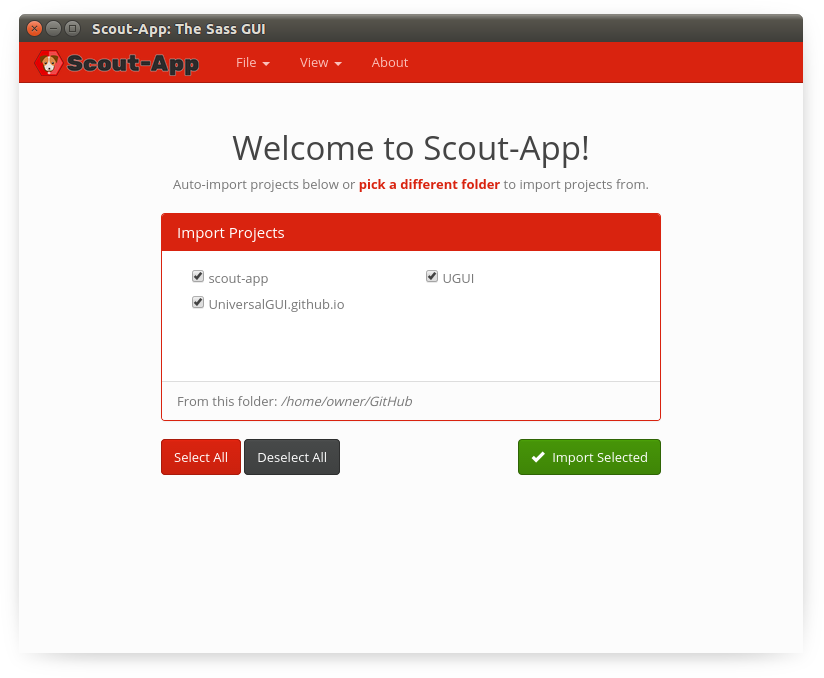
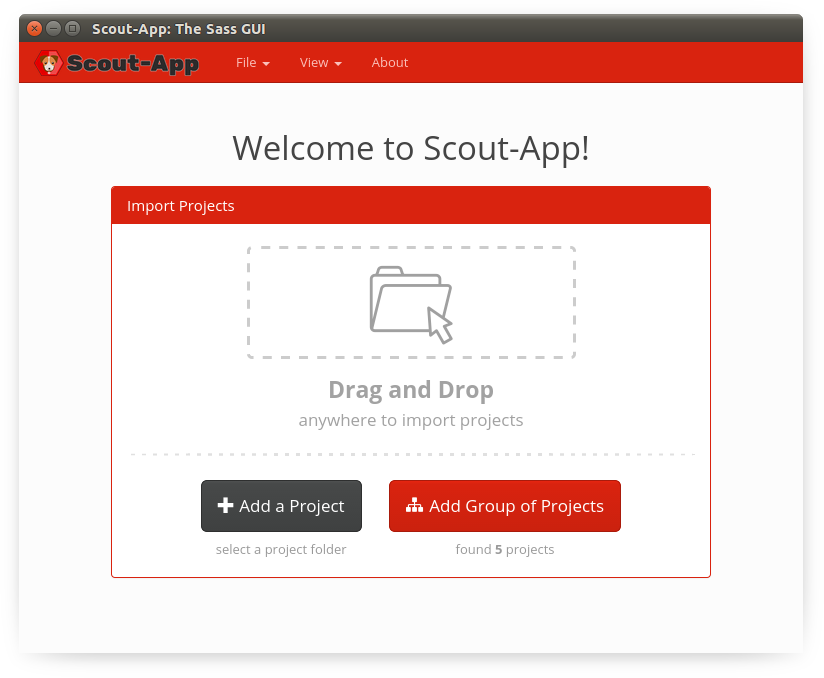
Update screenshots

Changed region(s): [[0.182, 0.5575, 0.8192, 0.8363], [0.1214, 0.2478, 0.8799, 0.5265]]

diff --git a/_scripts/main.js b/_scripts/main.js
@@ -1,1 +1,1 @@
-function slickInit(e){$(e).slick({lazyLoad:"ondemand",slidesToShow:1,slidesToScroll:1,dots:!0,centerMode:!0,focusOnSelect:!0,fade:!0})}function slideMaker(e,t,a){return'<div><img data-lazy="/_img/screenshots/'+e+"/"+t+'.png" alt="'+a+'" /><p>'+a+"</p></div>"}function updateScreenshots(e){for(var t="",a=siteData.screenshots,s=siteData.os[e].name,i="",l="",n="",o=0;o<a.length;o++)i=a[o].image,l=a[o].text+" ("+s+")",n=slideMaker(e,i,l),t=t+"\n"+n;if(siteData.os[e].legacy)for(var r=siteData.os[e].legacy,d=0;d<r.length;d++)i=r[d].image,l=r[d].name,n=slideMaker(e,i,l),t=t+"\n"+n;var c="#screenshots .slick";$(c).html(t).removeClass("slick-initialized slick-slider slick-dotted"),slickInit(c)}function updateCultures(e){for(var t=siteData.cultures,a=siteData.os[e].name,s="",i="",l="",n="",o=0;o<t.length;o++)i=t[o].image,l=t[o].language+" ("+a+")",n=slideMaker(e,i,l),s=s+"\n"+n;var r="#cultures .slick";$(r).html(s).removeClass("slick-initialized slick-slider slick-dotted"),slickInit(r)}function updateThemes(e){for(var t=siteData.themes,a=siteData.os[e].name,s="",i="",l="",n="",o=0;o<t.length;o++)i=t[o].image,l=t[o].theme+" ("+a+")",n=slideMaker(e,i,l),s=s+"\n"+n;var r="#themes .slick";$(r).html(s).removeClass("slick-initialized slick-slider slick-dotted"),slickInit(r)}var $=window.$,latestRelease="https://api.github.com/repos/scout-app/scout-app/releases";$.get(latestRelease,function(e){for(var t=0;t<e.length;t++){var a=e[t],s=a.assets,i=s.length;if(i>3){for(var l,n,o,r,d=0;d<i;d++){var c=s[d],m=c.browser_download_url,u=c.browser_download_url.toLowerCase();/lin32/gi.test(u)?l=m:/lin64/gi.test(u)?n=m:/osx/gi.test(u)?o=m:/win/gi.test(u)&&(r=m)}var h=a.tag_name;return h=h.replace("v",""),$("#downloads .lin32").attr("href",l),$("#downloads .lin64").attr("href",n),$("#downloads .osxupdate").attr("href",o),$("#downloads .windowsupdate").attr("href",r),$("#downloads .lin32").removeAttr("target").attr("download",""),$("#downloads .lin64").removeAttr("target").attr("download",""),$("#downloads .osxupdate").removeAttr("target").attr("download",""),$("#downloads .windowsupdate").removeAttr("target").attr("download",""),void $(".currentVersion").replaceWith(h)}}}),$(".showmore").click(function(){$(".limited").slideUp("slow"),$(".complete").slideDown("slow")}),$(".showless").click(function(){$(".complete").slideUp(),$(".limited").slideDown()}),$(".showless").click(),$("#minreqs th").click(function(){$("#minreqs th").removeClass("selected"),$(this).addClass("selected");var e=$(this).data("os");$("#minreqs td div").hide(),$("#minreqs ."+e).show()}),$("#translation_instructions").hide(),$(".showtranslations").click(function(){$("#translation_instructions").slideToggle()}),$(".translate-link").click(function(){$("#translation_instructions").slideDown()});var siteData={os:{win:{name:"Windows 7",legacy:[{name:"XP",image:"xp"},{name:"Windows 10",image:"win10"}]},ubuntu:{name:"Ubuntu",legacy:[{name:"Ubuntu 12 LTS",image:"ubuntu12"}]},zorin:{name:"Zorin",legacy:[{name:"Debian",image:"debian"}]},osx:{name:"OSX"}},cultures:[{language:"English",code:"en",image:"02"},{language:"Dutch",code:"nl",image:"03"},{language:"French",code:"fr",image:"04"},{language:"Russian",code:"ru",image:"05"}],themes:[{theme:"Simplex",image:"02"},{theme:"Cerulean",image:"06"},{theme:"Classic",image:"07"},{theme:"Cosmo",image:"08"},{theme:"Cyborg",image:"09"},{theme:"Darkly",image:"10"},{theme:"Flatly",image:"11"},{theme:"Journal",image:"12"},{theme:"Lumen",image:"13"},{theme:"Paper",image:"14"},{theme:"Readable",image:"15"},{theme:"Sandstone",image:"16"},{theme:"Slate",image:"17"},{theme:"Spacelab",image:"18"},{theme:"Superhero",image:"19"},{theme:"United",image:"20"},{theme:"Yeti",image:"21"}],screenshots:[{text:"First Time User Experience",image:"01"},{text:"Project view",image:"02"},{text:"Status of All Projects",image:"22"},{text:"Dev Tools are always accessible",image:"23"}]};$("#screenshots img").click(function(){var e=$(this).data("os");updateScreenshots(e)}),$("#cultures img").click(function(){var e=$(this).data("os");updateCultures(e)}),$("#themes img").click(function(){var e=$(this).data("os");updateThemes(e)});var currentOs="";$("html").hasClass("win")?(currentOs="win",$("#downloads .windowsupdate").addClass("selected")):$("html").hasClass("mac")?(currentOs="osx",$("#downloads .osxupdate").addClass("selected")):$("html").hasClass("linux")&&(currentOs="ubuntu",$("html").hasClass("arch32")?$("#downloads .lin32").addClass("selected"):$("html").hasClass("arch64")&&$("#downloads .lin64").addClass("selected")),$("#screenshots ."+currentOs).click(),$("#cultures ."+currentOs).click(),$("#themes ."+currentOs).click(),$('#minreqs [data-os="'+currentOs+'"]').click();
+function slickInit(e){$(e).slick({lazyLoad:"ondemand",slidesToShow:1,slidesToScroll:1,dots:!0,centerMode:!0,focusOnSelect:!0,fade:!0})}function slideMaker(e,t,a){return'<div><img data-lazy="/_img/screenshots/'+e+"/"+t+'.png" alt="'+a+'" /><p>'+a+"</p></div>"}function updateScreenshots(e){for(var t="",a=siteData.screenshots,s=siteData.os[e].name,i="",l="",n="",o=0;o<a.length;o++)i=a[o].image,l=a[o].text+" ("+s+")",n=slideMaker(e,i,l),t=t+"\n"+n;if(siteData.os[e].legacy)for(var r=siteData.os[e].legacy,d=0;d<r.length;d++)i=r[d].image,l=r[d].name,n=slideMaker(e,i,l),t=t+"\n"+n;var c="#screenshots .slick";$(c).html(t).removeClass("slick-initialized slick-slider slick-dotted"),slickInit(c)}function updateCultures(e){for(var t=siteData.cultures,a=siteData.os[e].name,s="",i="",l="",n="",o=0;o<t.length;o++)i=t[o].image,l=t[o].language+" ("+a+")",n=slideMaker(e,i,l),s=s+"\n"+n;var r="#cultures .slick";$(r).html(s).removeClass("slick-initialized slick-slider slick-dotted"),slickInit(r)}function updateThemes(e){for(var t=siteData.themes,a=siteData.os[e].name,s="",i="",l="",n="",o=0;o<t.length;o++)i=t[o].image,l=t[o].theme+" ("+a+")",n=slideMaker(e,i,l),s=s+"\n"+n;var r="#themes .slick";$(r).html(s).removeClass("slick-initialized slick-slider slick-dotted"),slickInit(r)}var $=window.$,latestRelease="https://api.github.com/repos/scout-app/scout-app/releases";$.get(latestRelease,function(e){for(var t=0;t<e.length;t++){var a=e[t],s=a.assets,i=s.length;if(i>3){for(var l,n,o,r,d=0;d<i;d++){var c=s[d],m=c.browser_download_url,u=c.browser_download_url.toLowerCase();/lin32/gi.test(u)?l=m:/lin64/gi.test(u)?n=m:/osx/gi.test(u)?o=m:/win/gi.test(u)&&(r=m)}var h=a.tag_name;return h=h.replace("v",""),$("#downloads .lin32").attr("href",l),$("#downloads .lin64").attr("href",n),$("#downloads .osxupdate").attr("href",o),$("#downloads .windowsupdate").attr("href",r),$("#downloads .lin32").removeAttr("target").attr("download",""),$("#downloads .lin64").removeAttr("target").attr("download",""),$("#downloads .osxupdate").removeAttr("target").attr("download",""),$("#downloads .windowsupdate").removeAttr("target").attr("download",""),void $(".currentVersion").replaceWith(h)}}}),$(".showmore").click(function(){$(".limited").slideUp("slow"),$(".complete").slideDown("slow")}),$(".showless").click(function(){$(".complete").slideUp(),$(".limited").slideDown()}),$(".showless").click(),$("#minreqs th").click(function(){$("#minreqs th").removeClass("selected"),$(this).addClass("selected");var e=$(this).data("os");$("#minreqs td div").hide(),$("#minreqs ."+e).show()}),$("#translation_instructions").hide(),$(".showtranslations").click(function(){$("#translation_instructions").slideToggle()}),$(".translate-link").click(function(){$("#translation_instructions").slideDown()});var siteData={os:{win:{name:"Windows 7",legacy:[{name:"XP",image:"xp"},{name:"Windows 10",image:"win10"}]},ubuntu:{name:"Ubuntu",legacy:[{name:"Ubuntu 12 LTS",image:"ubuntu12"}]},zorin:{name:"Zorin",legacy:[{name:"Debian",image:"debian"}]},osx:{name:"OSX"}},cultures:[{language:"English",code:"en",image:"02"},{language:"Dutch",code:"nl",image:"03"},{language:"French",code:"fr",image:"04"},{language:"Russian",code:"ru",image:"05"}],themes:[{theme:"Simplex",image:"02"},{theme:"Cerulean",image:"06"},{theme:"Classic",image:"07"},{theme:"Cosmo",image:"08"},{theme:"Cyborg",image:"09"},{theme:"Darkly",image:"10"},{theme:"Flatly",image:"11"},{theme:"Journal",image:"12"},{theme:"Lumen",image:"13"},{theme:"Paper",image:"14"},{theme:"Readable",image:"15"},{theme:"Sandstone",image:"16"},{theme:"Slate",image:"17"},{theme:"Spacelab",image:"18"},{theme:"Superhero",image:"19"},{theme:"United",image:"20"},{theme:"W3suli.com",image:"24"},{theme:"Yeti",image:"21"}],screenshots:[{text:"First Time User Experience",image:"01"},{text:"Project view",image:"02"},{text:"Multi-Project Import",image:"25"},{text:"Status of All Projects",image:"22"},{text:"Dev Tools are always accessible",image:"23"}]};$("#screenshots img").click(function(){var e=$(this).data("os");updateScreenshots(e)}),$("#cultures img").click(function(){var e=$(this).data("os");updateCultures(e)}),$("#themes img").click(function(){var e=$(this).data("os");updateThemes(e)});var currentOs="";$("html").hasClass("win")?(currentOs="win",$("#downloads .windowsupdate").addClass("selected")):$("html").hasClass("mac")?(currentOs="osx",$("#downloads .osxupdate").addClass("selected")):$("html").hasClass("linux")&&(currentOs="ubuntu",$("html").hasClass("arch32")?$("#downloads .lin32").addClass("selected"):$("html").hasClass("arch64")&&$("#downloads .lin64").addClass("selected")),$("#screenshots ."+currentOs).click(),$("#cultures ."+currentOs).click(),$("#themes ."+currentOs).click(),$('#minreqs [data-os="'+currentOs+'"]').click();

diff --git a/_js/main.js b/_js/main.js
@@ -139,27 +139,29 @@ var siteData = {
         { 'language': 'Russian', 'code': 'ru', 'image': '05' }
     ],
     'themes': [
-        { 'theme': 'Simplex',   'image': '02' },
-        { 'theme': 'Cerulean',  'image': '06' },
-        { 'theme': 'Classic',   'image': '07' },
-        { 'theme': 'Cosmo',     'image': '08' },
-        { 'theme': 'Cyborg',    'image': '09' },
-        { 'theme': 'Darkly',    'image': '10' },
-        { 'theme': 'Flatly',    'image': '11' },
-        { 'theme': 'Journal',   'image': '12' },
-        { 'theme': 'Lumen',     'image': '13' },
-        { 'theme': 'Paper',     'image': '14' },
-        { 'theme': 'Readable',  'image': '15' },
-        { 'theme': 'Sandstone', 'image': '16' },
-        { 'theme': 'Slate',     'image': '17' },
-        { 'theme': 'Spacelab',  'image': '18' },
-        { 'theme': 'Superhero', 'image': '19' },
-        { 'theme': 'United',    'image': '20' },
-        { 'theme': 'Yeti',      'image': '21' }
+        { 'theme': 'Simplex',    'image': '02' },
+        { 'theme': 'Cerulean',   'image': '06' },
+        { 'theme': 'Classic',    'image': '07' },
+        { 'theme': 'Cosmo',      'image': '08' },
+        { 'theme': 'Cyborg',     'image': '09' },
+        { 'theme': 'Darkly',     'image': '10' },
+        { 'theme': 'Flatly',     'image': '11' },
+        { 'theme': 'Journal',    'image': '12' },
+        { 'theme': 'Lumen',      'image': '13' },
+        { 'theme': 'Paper',      'image': '14' },
+        { 'theme': 'Readable',   'image': '15' },
+        { 'theme': 'Sandstone',  'image': '16' },
+        { 'theme': 'Slate',      'image': '17' },
+        { 'theme': 'Spacelab',   'image': '18' },
+        { 'theme': 'Superhero',  'image': '19' },
+        { 'theme': 'United',     'image': '20' },
+        { 'theme': 'W3suli.com', 'image': '24' },
+        { 'theme': 'Yeti',       'image': '21' }
     ],
     'screenshots': [
         { 'text': 'First Time User Experience',      'image': '01' },
         { 'text': 'Project view',                    'image': '02' },
+        { 'text': 'Multi-Project Import',            'image': '25' },
         { 'text': 'Status of All Projects',          'image': '22' },
         { 'text': 'Dev Tools are always accessible', 'image': '23' }
     ]
